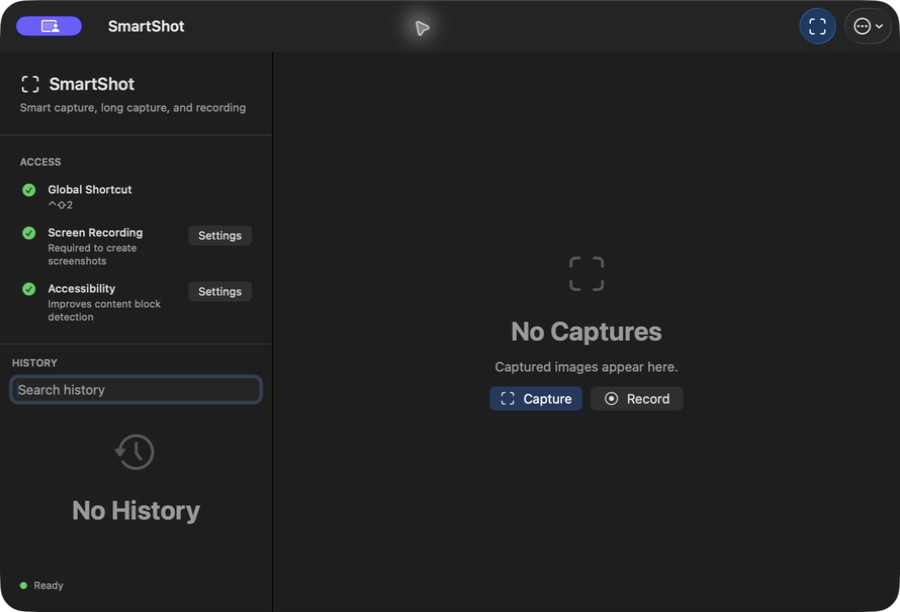
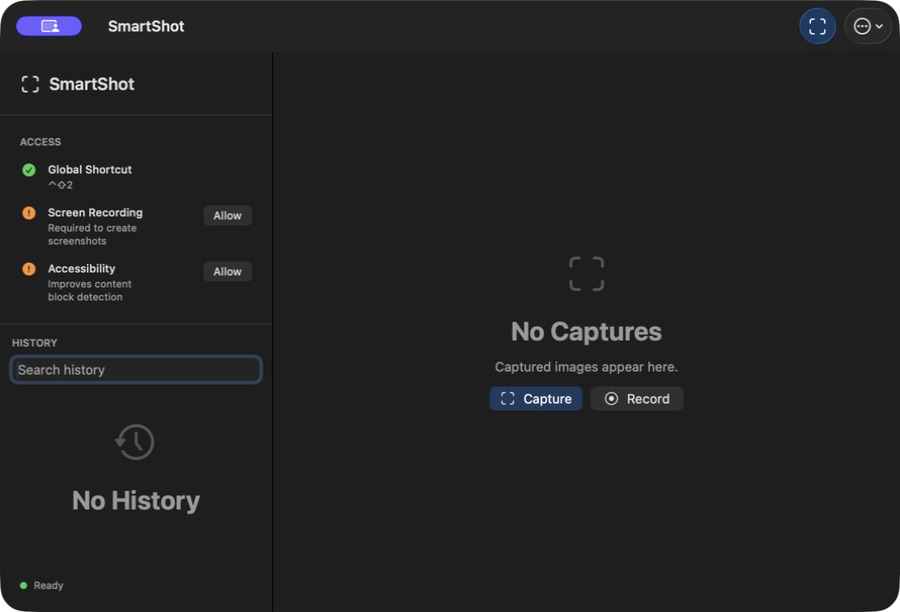
Add repository link to About and streamline documentation

diff --git a/Sources/SmartShotApp/SmartShotApp.swift b/Sources/SmartShotApp/SmartShotApp.swift
@@ -1,3 +1,4 @@
+import AppKit
 import SmartShotCore
 import SwiftUI
 
@@ -34,6 +35,9 @@ struct SmartShotApp: App {
         }
         .windowResizability(.contentMinSize)
         .commands {
+            CommandGroup(replacing: .appInfo) {
+                Button(L10n.text("About SmartShot"), action: showAboutPanel)
+            }
             CommandGroup(after: .newItem) {
                 Button(L10n.text("Capture")) { model.startCapture(origin: .mainWindow) }
                 Button(L10n.text("Automatic App Scroll (Experimental)")) {
@@ -76,6 +80,21 @@ struct SmartShotApp: App {
             MenuBarContent(model: model)
                 .environment(\.locale, AppLanguage.current.locale)
         }
+    }
+
+    private func showAboutPanel() {
+        let repositoryURL = "https://github.com/infinityf4p/SmartShot"
+        let paragraphStyle = NSMutableParagraphStyle()
+        paragraphStyle.alignment = .center
+        let credits = NSAttributedString(
+            string: repositoryURL,
+            attributes: [
+                .link: repositoryURL,
+                .font: NSFont.systemFont(ofSize: NSFont.smallSystemFontSize),
+                .paragraphStyle: paragraphStyle
+            ]
+        )
+        NSApp.orderFrontStandardAboutPanel(options: [.credits: credits])
     }
 }
 

diff --git a/README.md b/README.md
@@ -10,7 +10,7 @@ SmartShot combines smart block selection, region and long screenshots, an image 
 
 macOS 14+ · Swift 6 · Preview releases
 
-![SmartShot main window (v0.2.5)](Docs/Images/main-window.jpg)
+![SmartShot main window](Docs/Images/main-window.jpg)
 
 ## Features
 
@@ -34,45 +34,32 @@ macOS 14+ · Swift 6 · Preview releases
 - Browser extension ZIP: `SmartShot-Web-Selector-<version>.zip`
 - SHA-256 checksums: `SHA256SUMS.txt`
 
-This preview is ad-hoc signed, without a Developer ID certificate or Apple notarization. macOS may block a downloaded copy until you explicitly approve it in Finder or Privacy & Security. The packaged app has no `get-task-allow` debugging entitlement. Safari development enablement and the pending acceptance cases below still apply.
+This preview is ad-hoc signed, without a Developer ID certificate or Apple notarization. macOS may block a downloaded copy until you explicitly approve it in Finder or Privacy & Security. The packaged app has no `get-task-allow` debugging entitlement.
 
 ## Get Started
 
-1. Download the DMG or ZIP, place `SmartShot.app` in `/Applications`, and launch it. Alternatively, build from source below.
-2. Allow **Screen Recording** for screenshots and video. **Accessibility** enables smart content-block selection; manual regions remain available without it. Microphone access is separate and optional.
-3. Use **Capture** or the shortcut displayed in the app. Choose **Smart**, **Region**, **Long**, or **App Scroll**; press Escape to cancel.
-4. Edit the result, then Copy, Pin, or Save. **Save** writes directly to the configured folder; its adjacent arrow opens the save dialog. Use the close button to return to the initial view. For video, choose **More > Record Region** or **Record Current Display**. Stop saves an MP4; Cancel discards the recording.
+1. Move `SmartShot.app` to `/Applications`, launch it, and allow **Screen Recording**. **Accessibility** enables smart block selection; microphone access is optional.
+2. Click **Capture** or press `Control-Shift-2` (configurable in Settings), then choose a capture mode. Press Escape to cancel.
+3. Edit, Copy, Pin, or Save. **Save** writes to your chosen folder; its arrow opens the save dialog. Close the screenshot to return home. Record through **More > Record Region / Record Current Display**.
 
-The initial native shortcut is `Control-Shift-2`. If it conflicts with another app, use the shortcut shown in SmartShot or change it in Settings.
-
-The app starts in English by default. Choose **Settings > General > Language > 简体中文** for Simplified Chinese, then quit and reopen SmartShot. The language choice is saved; choosing **English** switches back after a restart.
+English is the default. Choose **Settings > General > Language > 简体中文** and restart to switch to Chinese; the selection is saved.
 
 ## Build Locally
 
-Requirements: macOS 14+, Xcode with Swift 6 support, [XcodeGen](https://github.com/yonaskolb/XcodeGen), and Node.js for browser tests. The current checkout has been tested on Apple Silicon with Xcode 26.6.
+Requires macOS 14+, Xcode with Swift 6, and [XcodeGen](https://github.com/yonaskolb/XcodeGen).
 
 ```sh
 git clone https://github.com/infinityf4p/SmartShot.git
 cd SmartShot
 xcodegen generate
-
 xcodebuild -project SmartShot.xcodeproj -scheme SmartShot \
   -configuration Release -derivedDataPath DerivedData \
   build CODE_SIGN_IDENTITY=- DEVELOPMENT_TEAM= \
   CODE_SIGN_INJECT_BASE_ENTITLEMENTS=NO
-
 open DerivedData/Build/Products/Release/SmartShot.app
 ```
 
-This command overrides the project's local signing identity with ad-hoc signing, so it does not require a Keychain signing certificate. It builds a local app with the same signing limitations as the preview download, not a Developer ID signed or notarized release. Different signatures can require new macOS permissions.
-
-For Safari extension development, use the dedicated isolated build instead:
-
-```sh
-Scripts/build_safari_development.sh
-```
-
-The script verifies universal binaries and nested signatures, prints the app path, and leaves the existing `/Applications/SmartShot.app` untouched. Its debugging entitlements are for development only; do not distribute that artifact. See [Safari development setup](Docs/SAFARI_DEVELOPMENT_BUILD.md).
+This uses ad-hoc signing without a signing certificate; macOS may require new permissions. For Safari extension development, see [Safari development builds](Docs/SAFARI_DEVELOPMENT_BUILD.md).
 
 ## Browser Extension
 
@@ -89,31 +76,6 @@ The extension selects one webpage content block and produces a PNG. It captures 
 Safari requires a compatible Apple development signature or the dedicated **Sign to Run Locally** build. The latter requires **Settings > Developer > Allow unsigned extensions**, extension enablement, and Website Access; Safari resets the unsigned override when it quits. A normal ad-hoc or custom self-signed build is not sufficient on its own. Safari capture/import is still awaiting full runtime acceptance.
 
 See the [extension guide](BrowserExtension/README.md) for installation, permissions, capture bounds, and native messaging details.
-
-## Current Verification
-
-The full automated suites were rerun on **2026-09-14**:
-
-| Suite | Result |
-| --- | --- |
-| Native Swift tests | 205 passed, 0 failed, 0 skipped |
-| Browser extension tests | 114 passed, 0 failed, 0 skipped |
-
-Recorded runtime checks include controlled Chrome visible/long capture with native preview, OCR and sensitive-text redaction, history search, private-history suppression, pinning, editor refresh/crop/move/delete, PNG/JPEG output, system-audio recording, GIF export, and recording cancellation. These observations cover specific scenarios, not every supported configuration.
-
-Still pending: the complete editor/output/privacy matrix, actual microphone recording, A/V sync, Safari capture/import, current public X compatibility, mixed displays/full-screen Spaces, and sustained recording/failure recovery. See the [test plan](Docs/TEST_PLAN.md) and runtime records for [September 5](Docs/ACCEPTANCE_2026-09-05.md) and [September 6](Docs/ACCEPTANCE_2026-09-06.md).
-
-To run the tests:
-
-```sh
-xcodebuild -project SmartShot.xcodeproj -scheme SmartShot \
-  -configuration Debug -destination 'platform=macOS,arch=arm64' \
-  -derivedDataPath DerivedData test CODE_SIGNING_ALLOWED=NO
-
-npm --prefix BrowserExtension test
-```
-
-The destination above targets Apple Silicon. Use the appropriate macOS architecture on an Intel Mac. Automated tests do not exercise real permissions or prove browser installation.
 
 ## Scope and Privacy
 

diff --git a/README.zh-CN.md b/README.zh-CN.md
@@ -10,7 +10,7 @@ SmartShot 将智能选区、区域截图、长截图、图片编辑、本地 OCR
 
 macOS 14+ · Swift 6 · 预览版
 
-![SmartShot 主界面（v0.2.5）](Docs/Images/main-window.jpg)
+![SmartShot 主界面](Docs/Images/main-window.jpg)
 
 ## 功能
 
@@ -34,45 +34,32 @@ macOS 14+ · Swift 6 · 预览版
 - 浏览器扩展 ZIP：`SmartShot-Web-Selector-<version>.zip`
 - SHA-256 校验文件：`SHA256SUMS.txt`
 
-该预览版使用 ad-hoc 签名，没有 Developer ID 证书或 Apple 公证。macOS 可能会阻止下载的应用，需要你在 Finder 或“隐私与安全性”中明确允许打开。安装包不含 `get-task-allow` 调试权限；Safari 开发启用条件及下方待验收范围仍然适用。
+该预览版使用 ad-hoc 签名，没有 Developer ID 证书或 Apple 公证。macOS 可能会阻止下载的应用，需要你在 Finder 或“隐私与安全性”中明确允许打开。安装包不含 `get-task-allow` 调试权限。
 
 ## 开始使用
 
-1. 下载 DMG 或 ZIP，将 `SmartShot.app` 放入 `/Applications` 后启动；也可以按下方说明从源码构建。
-2. 截图与录屏需要 **屏幕录制** 权限。**辅助功能** 权限用于智能内容块选择；没有该权限时仍可手动框选。麦克风权限独立且可选。
-3. 点击 **Capture**，或使用应用中显示的快捷键。选择 **Smart**、**Region**、**Long** 或 **App Scroll**，按 Escape 取消。
-4. 编辑截图后选择 Copy、Pin 或 Save。**Save** 直接保存到配置的文件夹，右侧箭头打开保存弹窗；关闭按钮返回初始界面。录屏入口为 **More > Record Region** 或 **Record Current Display**；Stop 保存 MP4，Cancel 丢弃本次录制。
+1. 将 `SmartShot.app` 放入 `/Applications`，启动后允许 **屏幕录制**；**辅助功能**用于智能选区，麦克风权限可选。
+2. 点击 **Capture（截图）**，或按 `Control-Shift-2`（可在设置中修改），再选择截图模式；按 Escape 取消。
+3. 编辑后复制、贴图或保存。**Save（保存）**直接写入指定文件夹，旁边箭头打开保存弹窗；关闭截图返回主界面。录屏入口为 **More（更多）> Record Region / Record Current Display**。
 
-原生截图的初始快捷键为 `Control-Shift-2`。如果与其他应用冲突，以 SmartShot 显示的快捷键为准，也可以在 Settings 中修改。
-
-应用默认使用英文。在 **Settings > General > Language** 中选择 **简体中文**，退出并重新打开 SmartShot 后生效。语言选择会保存；切回英文时，在 **设置 > 通用 > 语言** 中选择 **English**，然后重启应用。
+默认使用英文。在 **Settings > General > Language** 中选择 **简体中文**，重启后生效，选择会保存。
 
 ## 本地构建
 
-需要 macOS 14+、支持 Swift 6 的 Xcode、[XcodeGen](https://github.com/yonaskolb/XcodeGen)，以及用于浏览器测试的 Node.js。当前代码已在 Apple Silicon 和 Xcode 26.6 环境下测试。
+需要 macOS 14+、支持 Swift 6 的 Xcode 和 [XcodeGen](https://github.com/yonaskolb/XcodeGen)。
 
 ```sh
 git clone https://github.com/infinityf4p/SmartShot.git
 cd SmartShot
 xcodegen generate
-
 xcodebuild -project SmartShot.xcodeproj -scheme SmartShot \
   -configuration Release -derivedDataPath DerivedData \
   build CODE_SIGN_IDENTITY=- DEVELOPMENT_TEAM= \
   CODE_SIGN_INJECT_BASE_ENTITLEMENTS=NO
-
 open DerivedData/Build/Products/Release/SmartShot.app
 ```
 
-上述命令用 ad-hoc 签名覆盖项目中的本地签名身份，**不需要 Keychain 签名证书**。生成的本地应用与预览版下载具有相同的签名限制，并非经过 Developer ID 签名或公证的发行版；签名变化后，macOS 可能要求重新授权。
-
-Safari 扩展开发请改用独立构建脚本：
-
-```sh
-Scripts/build_safari_development.sh
-```
-
-脚本会校验通用二进制及嵌套签名、打印应用路径，并保留现有 `/Applications/SmartShot.app`。该构建带有仅供开发的调试权限，不应分发。详见 [Safari 开发构建说明](Docs/SAFARI_DEVELOPMENT_BUILD.md)。
+上述命令使用 ad-hoc 签名，无需签名证书；macOS 可能要求重新授权。Safari 扩展开发见 [专用构建说明](Docs/SAFARI_DEVELOPMENT_BUILD.md)。
 
 ## 浏览器扩展
 
@@ -89,31 +76,6 @@ Scripts/build_safari_development.sh
 Safari 需要兼容的 Apple 开发签名，或专用的 **Sign to Run Locally** 构建。后者需要开启 **Settings > Developer > Allow unsigned extensions**，启用扩展并授予网站访问权限；Safari 退出后会重置未签名扩展开关。普通 ad-hoc 或自定义自签名构建本身不足以完成 Safari 扩展安装。目前 Safari 截图与导入仍待完整实机验收。
 
 安装、权限、截图限制和原生通信细节见 [浏览器扩展说明](BrowserExtension/README.md)。
-
-## 验证状态
-
-**2026-09-14** 重新运行了完整自动化测试：
-
-| 测试 | 结果 |
-| --- | --- |
-| 原生 Swift 测试 | 205 通过，0 失败，0 跳过 |
-| 浏览器扩展测试 | 114 通过，0 失败，0 跳过 |
-
-已记录的实机检查包括：受控 Chrome 页面可见区域与长截图导入原生预览、OCR 与敏感文字遮挡、历史搜索、私密截图不写历史、置顶贴图、编辑器刷新及裁剪/移动/删除、PNG/JPEG 输出、系统声音录屏、GIF 导出和取消录制。这些结果只覆盖各自记录的场景。
-
-仍待验收：完整编辑/输出/隐私流程、麦克风实际录制、音画同步、Safari 截图与导入、当前公开 X 网站兼容性、混合显示器与全屏空间，以及长时间录制和故障恢复。详见 [测试计划](Docs/TEST_PLAN.md) 与 [9 月 5 日](Docs/ACCEPTANCE_2026-09-05.md)、[9 月 6 日](Docs/ACCEPTANCE_2026-09-06.md)实机记录。
-
-运行测试：
-
-```sh
-xcodebuild -project SmartShot.xcodeproj -scheme SmartShot \
-  -configuration Debug -destination 'platform=macOS,arch=arm64' \
-  -derivedDataPath DerivedData test CODE_SIGNING_ALLOWED=NO
-
-npm --prefix BrowserExtension test
-```
-
-上述测试目标适用于 Apple Silicon；Intel Mac 请使用对应的 macOS 架构。自动化测试不操作真实权限，也不能证明浏览器扩展已正确安装。
 
 ## 范围与隐私
 
